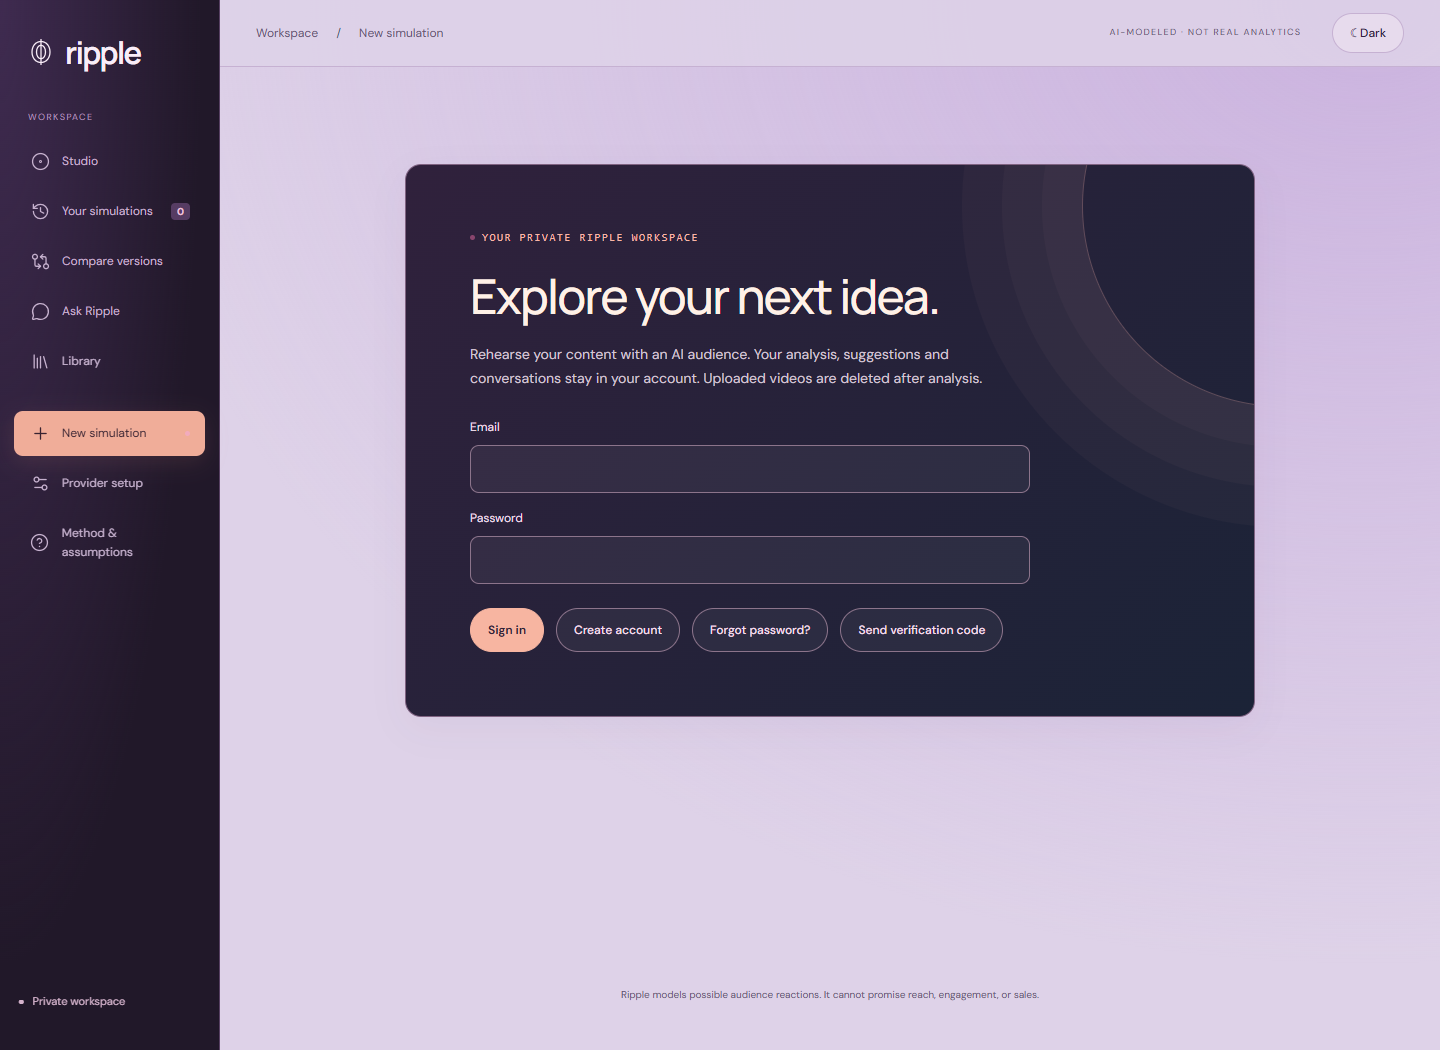
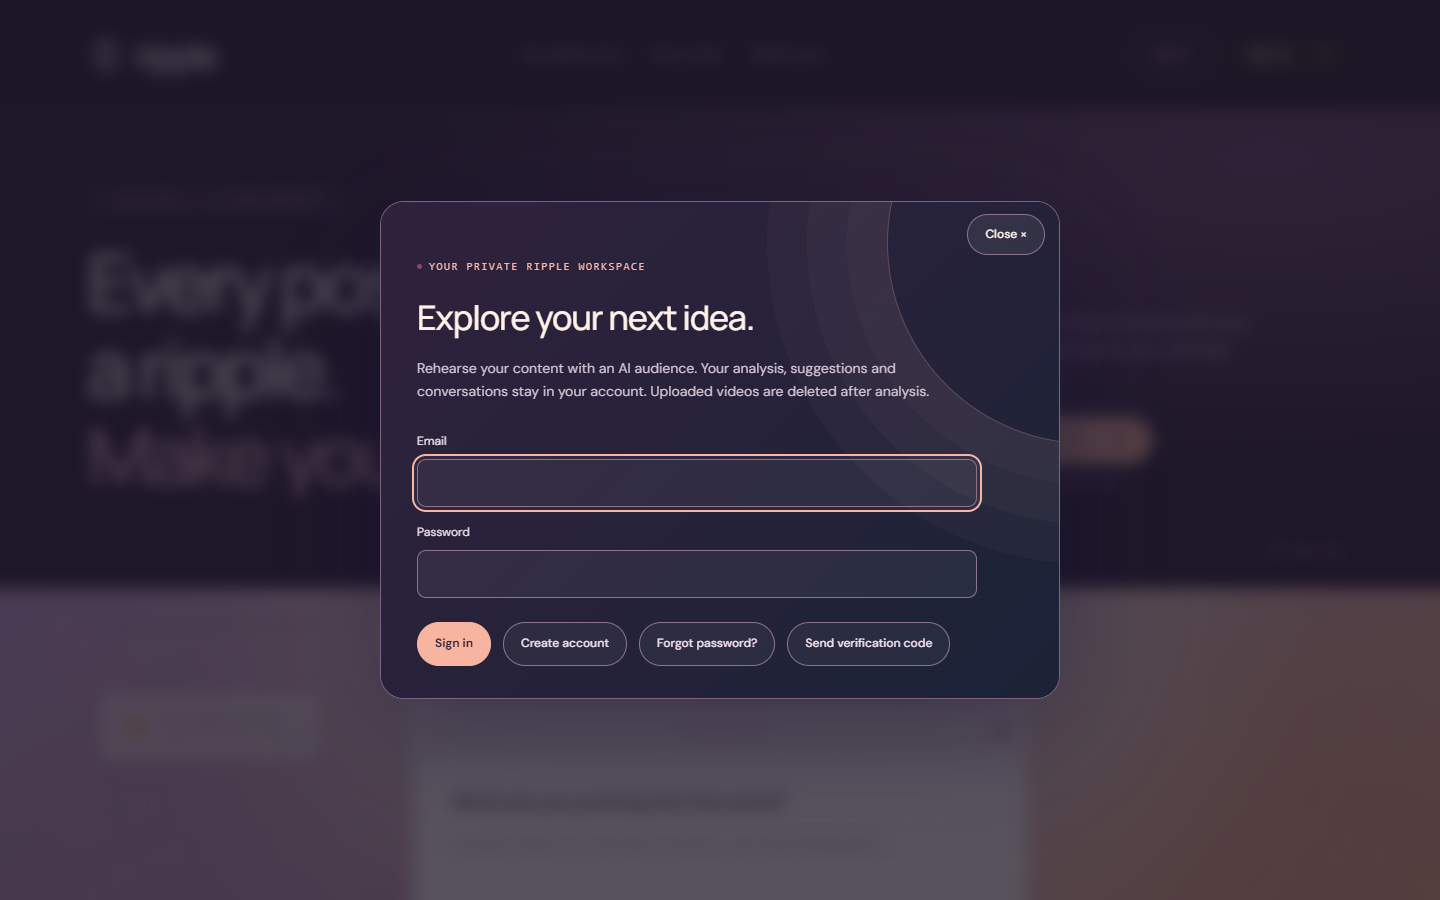
Document public signup experience with updated screenshots

diff --git a/README.md b/README.md
@@ -40,11 +40,15 @@ Screenshots containing results use **clearly labeled documentation fixtures**, n
 
 ### Your account, your rehearsal space
 
+Visitors first see a public introduction explaining the audience map, version comparisons, Ask Ripple and saved research. **Sign in** and **Sign up** sit at the top right; starting a rehearsal opens the account form. Browsing this introduction does not fetch private workspace data.
+
+![Public Ripple introduction with feature navigation and top-right Sign in and Sign up](docs/screenshots/15-public-introduction.png)
+
 Hosted Ripple uses **Neon Auth** for signup, login, email verification and password recovery. Create an account, verify the code or link sent to your email, then sign in. **Forgot password?** sends a recovery link; **Send verification code** helps you finish an unverified signup. Each account can access only its own simulations, conversations and exports. Videos and extracted images are temporary: Ripple deletes them after analysis and saves the written observations and suggestions.
 
 ![Ripple account screen with email login, signup, recovery and verification controls](docs/screenshots/14-account-signin.png)
 
-The screenshot shows the real login interface using a documentation fixture, with no private account details. Local development can still use `AUTH_MODE=local`. For a public release, follow [Deploy with Vercel and Neon](DEPLOYMENT.md); creating a PostgreSQL database named `auth` alone does not activate Neon Auth.
+The screenshot shows the account dialog over the public introduction, using a documentation fixture with no private account details. Rejected credentials offer password recovery; unverified-email responses open the verification form. A successful signup request does not prove email delivery. Local development can still use `AUTH_MODE=local`. For a public release, follow [Deploy with Vercel and Neon](DEPLOYMENT.md); creating a PostgreSQL database named `auth` alone does not activate Neon Auth.
 
 ### 1. Bring your content and define your audience
 

diff --git a/VALIDATION.md b/VALIDATION.md
@@ -1,5 +1,11 @@
 # Validation performed
 
+## Public introduction and account UX — October 21
+
+- Anonymous visitors see the feature introduction with top-right sign-in/signup actions. Account dialogs support keyboard dismissal; protected CTAs open signup and do not fetch workspace records.
+- Seven authentication tests cover public entry, rejected credentials, unverified accounts, recovery, session renewal and network failures. Build, UI and deployment tests passed. Chrome verified guest navigation at 390/768/1440px and the existing workspace suite passed 32 responsive checks. Public introduction and account screenshots were reviewed.
+- The user's reported sign-in HTTP 401 remains an external account diagnosis: no password was collected, account modified, or verification bypassed. Live email delivery and successful sign-in with that account remain unverified.
+
 ## Authentication startup fix — October 20
 
 - Reproduced the deployed login failure in isolated Chrome: CSP blocked Neon's `/get-session` because the allowed URL lacked the trailing slash required for endpoint paths. Both website and backend policies now allow paths beneath the configured Auth base URL.
